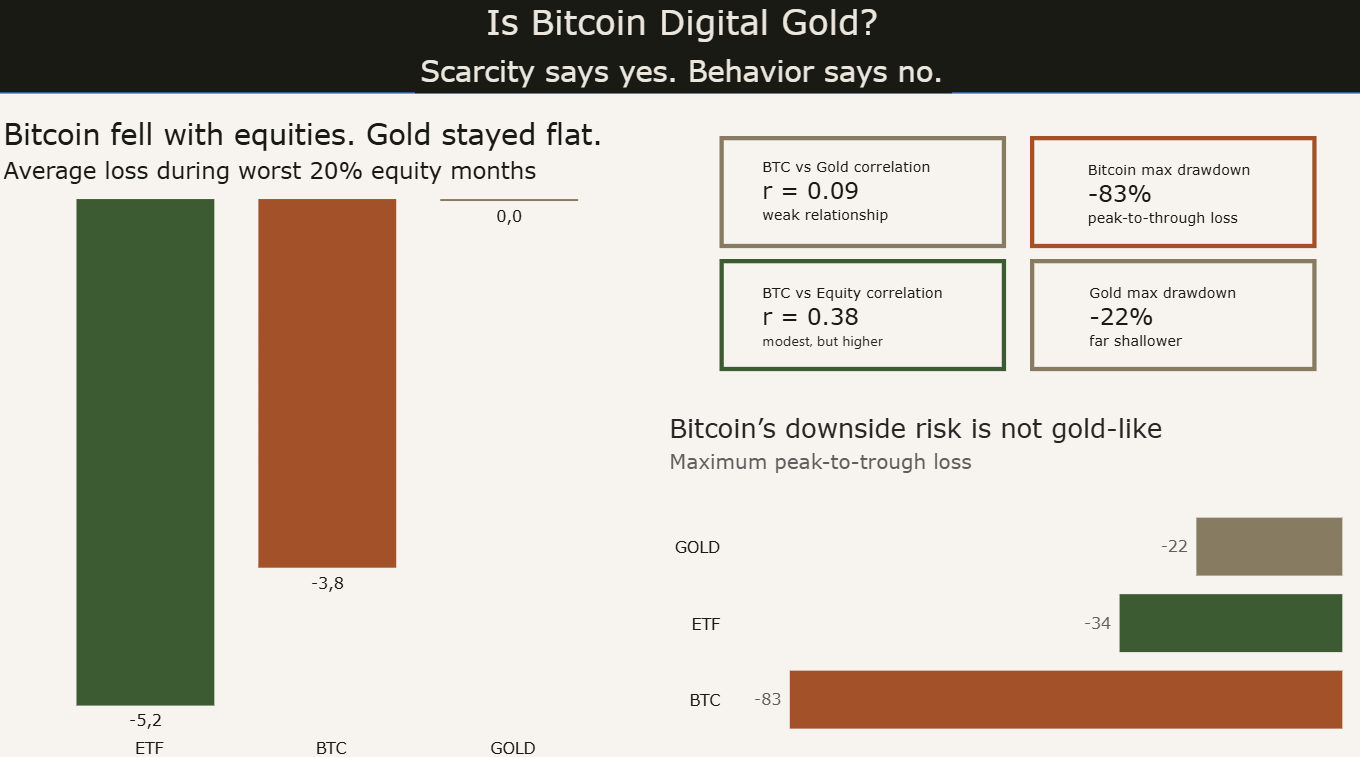
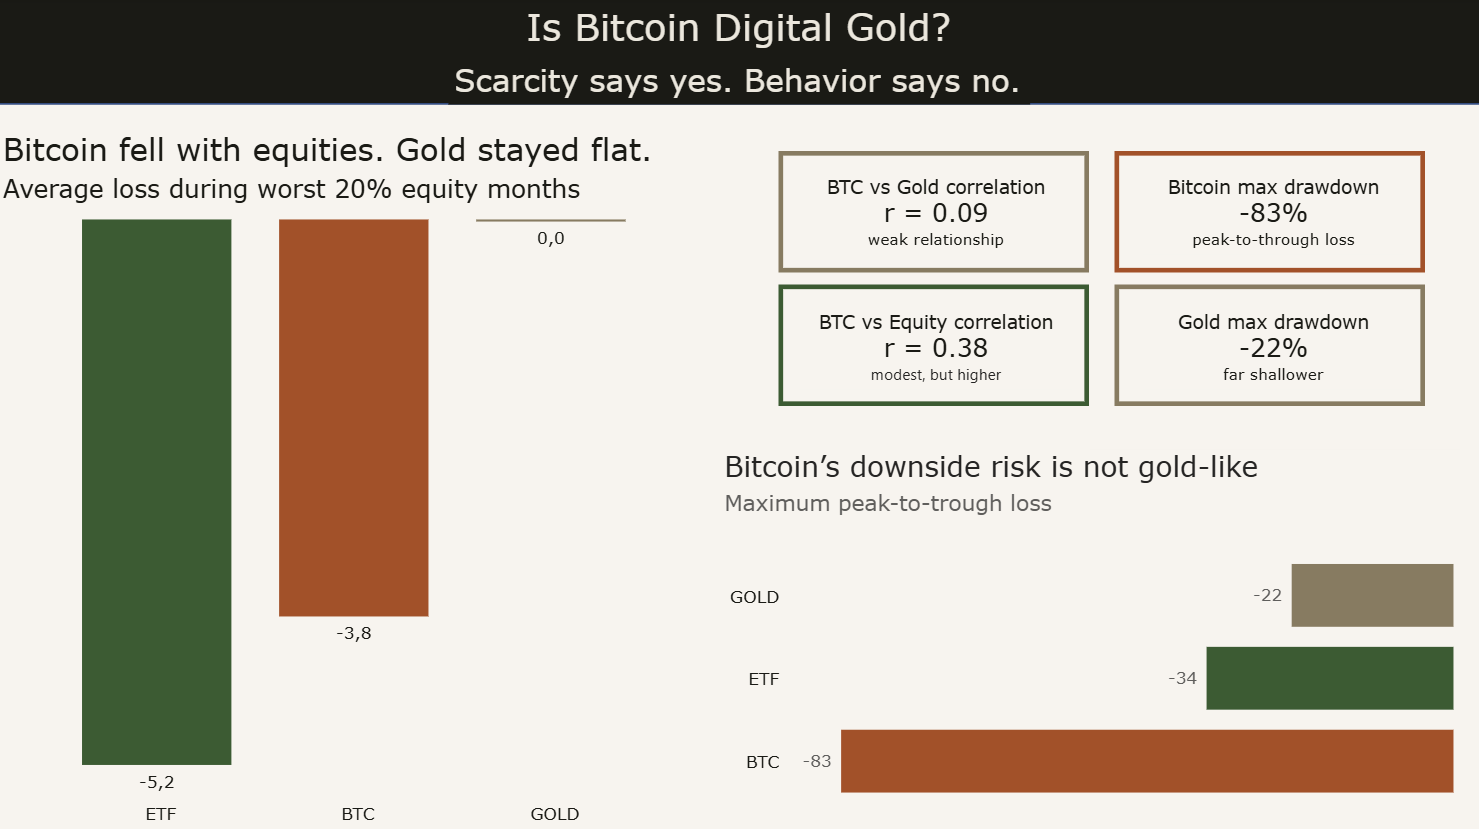
Update

diff --git a/README.md b/README.md
@@ -1,23 +1,29 @@
-# Bitcoin Digital Gold Analysis
+# Is Bitcoin Digital Gold?
 
-## Project Snapshot
+## 📌 Project Snapshot
 
 - **Type:** end-to-end data analysis project
 - **Tools:** Python, pandas, SciPy, Power BI
 - **Data:** Yahoo Finance, FRED
-- **Assets:** Bitcoin, Gold, Global Equities
+- **Assets:** Bitcoin, gold, global equities
 - **Focus:** correlation, safe-haven behavior, real returns, volatility, drawdowns
-- **Output:** reproducible Python pipeline, Power BI dashboard, static dashboard screenshots
+- **Output:** Reproducible Python pipeline, Power BI dashboard, static dashboard screenshots
 
-Is Bitcoin really digital Gold?
+## 🔑 Key Takeaway
 
-> A data analysis project testing whether Bitcoin behaves like Gold in market data, or whether the “digital gold” label is mainly a scarcity narrative.
+Bitcoin shares gold’s scarcity narrative, but not its observed market behavior.
 
-Bitcoin is often described as “digital Gold”.
-The idea sounds intuitive: both are scarce, independent of governments, and viewed by some as alternatives to traditional money.
-But scarcity alone does not guarantee similar behavior.
+From 2014 to 2026, Bitcoin delivered much higher returns than gold and global equities, but also showed deeper drawdowns, higher volatility, weak correlation with gold, and no clear safe-haven behavior during bad equity months.
 
-This project tests the Digital Gold claim empirically using BTC, Gold, and global equities from 2014 to 2026.
+> Scarcity is similar. Behavior, so far, is not.
+
+## 🧭 Overview
+
+Bitcoin is often described as “digital gold” because of its fixed supply and independence from traditional monetary systems.
+
+But scarcity alone does not guarantee gold-like behavior.
+
+This project tests whether Bitcoin has behaved like gold in market data by comparing Bitcoin, gold, and global equities across returns, correlations, drawdowns, volatility, and safe-haven behavior.
 
 ## 📸 Dashboard Preview
 
@@ -26,51 +32,50 @@ The final Power BI dashboard tells the story across four pages.
 ### 1. Verdict
 ![Hero page](./visuals/1_hero.png)
 
-### 2. Return path
+### 2. Return Path
 ![Return path](./visuals/2_return_path.png)
 
-### 3. Correlation behavior
+### 3. Correlation Behavior
 ![Correlation behavior](./visuals/3_correlation_behavior.png)
 
-### 4. Final scorecard
+### 4. Final Scorecard
 ![Scorecard](./visuals/4_scorecard.png)
 
 The interactive Power BI file is available as:
 
 ```text
 btc-digital-gold-dashboard.pbix
-````
+```
 
 ## 🎯 Research Question
 
-Bitcoin is often called “digital Gold” because of its fixed supply.
+Bitcoin is often called “digital gold” because of its fixed supply.
 
 This project asks:
 
-> Does Bitcoin only resemble Gold in its scarcity narrative, or has it also behaved like Gold in market data?
+> Does Bitcoin only resemble gold in its scarcity narrative, or has it also behaved like gold in market data?
 
-To test this, the analysis compares Bitcoin with:
+To test this, the analysis compares three assets:
 
 | Asset           | Ticker  | Role                             |
 | --------------- | ------- | -------------------------------- |
-| Bitcoin         | BTC-USD | Digital Gold candidate           |
+| Bitcoin         | BTC-USD | Digital gold candidate           |
 | Gold            | GLD     | Traditional safe-haven benchmark |
 | Global equities | ACWI    | Risk-asset benchmark             |
 
-## 🧠 Background
+## 🧠 Analytical Framing
 
-Gold has historically been viewed as a store of value and partial safe haven.
-Bitcoin is sometimes described as a digital version of Gold because its supply is algorithmically limited.
+Gold is commonly viewed as a store of value and partial safe-haven asset.
 
-However, an asset can be scarce without behaving like a safe haven.
+For Bitcoin to behave like “digital gold”, scarcity alone is not enough. It should also show at least some gold-like market behavior.
 
-This project therefore separates the narrative from the observed behavior:
+This project therefore separates the narrative from the data and tests five questions:
 
-* Does Bitcoin move like Gold?
-* Does Bitcoin hold up when equities fall?
-* Does Bitcoin hedge inflation?
-* Did Bitcoin deliver higher returns, and at what risk?
-* Has Bitcoin behaved like digital Gold so far?
+* Does Bitcoin move like gold?
+* Does Bitcoin hold up when global equities fall?
+* How do real returns, volatility, and drawdowns compare?
+* Is there any clear inflation-hedge signal?
+* Overall, does Bitcoin’s market behavior support the digital-gold narrative?
 
 ## 📊 Data Sources
 
@@ -82,39 +87,40 @@ This project therefore separates the narrative from the observed behavior:
 
 ## 📆 Analysis Period
 
-The analysis uses the longest common period available for BTC, Gold, and global equities:
+The analysis uses the longest common period available for Bitcoin, gold, and global equities:
 
 ```text
 2014-09-17 to 2026-04-30
 ```
 
-Only days where all three assets have valid prices are used.
-No forward-fill is applied across asset calendars.
+Only dates with valid prices for all three assets are included.
+
+No forward-fill is applied across asset calendars. This keeps the comparison consistent and avoids carrying prices across non-overlapping trading days.
 
 ## ⚙️ Methodology
 
 The project uses a reproducible Python pipeline:
 
-1. Download daily prices for BTC, Gold, and global equities
+1. Download daily prices for BTC, gold, and global equities
 2. Inner-join assets on common trading days
 3. Calculate monthly returns
 4. Add macro data from FRED
-5. Run Digital Gold tests:
+5. Run digital gold tests:
 
    * Spearman correlation
-   * safe-haven behavior in bad equity months
-   * inflation sensitivity
-   * rate sensitivity
-   * real returns
-   * volatility
-   * maximum drawdown
+   * Safe-haven behavior in bad equity months
+   * Inflation sensitivity
+   * Rate sensitivity
+   * Real returns
+   * Volatility
+   * Maximum drawdown
 6. Export clean CSV files for Power BI
 
 ### Why Spearman correlation?
 
-Spearman correlation is used instead of Pearson correlation because Bitcoin returns are highly non-normal and fat-tailed.
+Spearman correlation is used because Bitcoin returns are highly non-normal and fat-tailed.
 
-Spearman measures whether two assets tend to move in the same rank order, without assuming a linear relationship or normally distributed returns.
+Unlike Pearson correlation, Spearman does not assume a linear relationship or normally distributed returns. It measures whether two assets tend to move in the same rank order.
 
 ### Safe-haven test
 
@@ -122,101 +128,70 @@ Bad equity months are defined as the worst 20% of monthly global equity returns.
 
 The test asks:
 
-> When equities perform poorly, does Bitcoin behave more like Gold or more like a risk asset?
+> When equities perform poorly, does Bitcoin behave more like gold or more like a risk asset?
 
 ## 📈 Key Results
 
 ### 1. Bitcoin did not behave like a safe haven
 
-During the worst 20% of equity months:
+During the worst 20% of monthly global equity returns, gold stayed essentially flat while Bitcoin fell with equities.
 
-| Asset           | Average return |
-| --------------- | -------------: |
-| Gold            |         +0.02% |
-| Bitcoin         |         -3.77% |
-| Global equities |         -5.18% |
+| Asset           | Average return during bad equity months |
+| --------------- | --------------------------------------: |
+| Gold            |                                  +0.02% |
+| Bitcoin         |                                  -3.77% |
+| Global equities |                                  -5.18% |
 
-Gold stayed essentially flat.
-Bitcoin fell with equities.
+This is one of the clearest findings against the digital-gold safe-haven claim.
 
-This is one of the clearest findings challenging the Digital Gold safe-haven claim.
-
-### 2. BTC-Gold correlation was near zero
+### 2. Bitcoin did not move like gold
 
 Full-period Spearman correlation of monthly returns:
 
-| Pair                    | Spearman r | Interpretation     |
-| ----------------------- | ---------: | ------------------ |
-| BTC vs Gold             |       0.09 | Near zero          |
-| BTC vs Global equities  |       0.38 | Modest, but higher |
-| Gold vs Global equities |       0.25 | Weak/modest        |
+| Pair                       | Spearman r | Interpretation     |
+| -------------------------- | ---------: | ------------------ |
+| Bitcoin vs gold            |       0.09 | Near zero          |
+| Bitcoin vs global equities |       0.38 | Modest, but higher |
+| Gold vs global equities    |       0.25 | Weak/modest        |
 
-Bitcoin was closer to equities than to Gold, but neither relationship was strong.
+Bitcoin was closer to global equities than to gold, but neither relationship was strong.
 
-This matters:
-The result does **not** show that Bitcoin is simply an equity clone.
-It shows that Bitcoin has not moved like Gold.
+This does not mean Bitcoin behaved like an equity clone. It means Bitcoin did not behave like gold.
 
-### 3. Bitcoin delivered extraordinary returns
+### 3. Bitcoin delivered the highest returns, but with much higher risk
 
-Real CAGR, inflation-adjusted:
+| Asset           | Real CAGR | Max drawdown | Annualized volatility |
+| --------------- | --------: | -----------: | --------------------: |
+| Bitcoin         |    53.30% |      -83.04% |                66.41% |
+| Gold            |     8.62% |      -22.00% |                15.94% |
+| Global equities |     7.46% |      -33.53% |                16.93% |
 
-| Asset           | Real CAGR |
-| --------------- | --------: |
-| Bitcoin         |    53.30% |
-| Gold            |     8.62% |
-| Global equities |     7.46% |
+Bitcoin dominated total returns, but its downside risk and volatility were not gold-like.
 
-Bitcoin dominated total returns.
+Gold also performed strongly over the period and quietly outperformed global equities on a real-return basis.
 
-Gold also performed strongly and quietly outperformed global equities over the period.
-
-### 4. Bitcoin’s path was much rougher
-
-Maximum drawdown:
-
-| Asset           | Max drawdown |
-| --------------- | -----------: |
-| Bitcoin         |      -83.04% |
-| Global equities |      -33.53% |
-| Gold            |      -22.00% |
-
-Bitcoin delivered the highest upside, but its downside risk was not Gold-like.
-
-### 5. Bitcoin remained much more volatile
-
-Annualized volatility:
-
-| Asset           | Annualized volatility |
-| --------------- | --------------------: |
-| Bitcoin         |                66.41% |
-| Global equities |                16.93% |
-| Gold            |                15.94% |
-
-Bitcoin remained roughly four times as volatile as Gold and global equities.
-
-### 6. Inflation hedge behavior was inconclusive
+### 4. Inflation-hedge behavior was inconclusive
 
 None of the assets showed clear monthly inflation-hedge behavior.
 
-This does not mean the assets failed to beat inflation over the full period.
-It means they did not reliably rise in the same months when inflation was high.
+This does not mean the assets failed to beat inflation over the full period. It means they did not reliably rise in the same months when inflation was high.
 
 ## 🧾 Final Interpretation
 
-Bitcoin shares Gold’s scarcity narrative, but not its observed market behavior.
+Bitcoin shares gold’s scarcity narrative, but not its observed market behavior.
 
-The strongest case for Bitcoin is:
+The strongest case for Bitcoin as “digital gold” is narrative-based:
 
 * fixed supply
-* high long-term return
-* independent monetary narrative
+* independent monetary design
+* high long-term return potential
 
-The weaker case is:
+The weaker case is behavioral:
 
-* safe-haven behavior
-* Gold-like correlation
-* Gold-like drawdown profile
+* weak correlation with gold
+* no clear safe-haven behavior in bad equity months
+* much deeper drawdowns than gold
+* substantially higher volatility
 
 Final takeaway:
 
@@ -226,18 +201,15 @@ Final takeaway:
 
 Bitcoin is a young asset.
 
-This analysis covers most of Bitcoin’s liquid market history, but only a small slice of Gold’s much longer monetary history.
-
-Future behavior may change as Bitcoin matures, adoption broadens, and market structure evolves.
+This analysis covers most of Bitcoin’s liquid market history, but only a small slice of gold’s much longer monetary history. Bitcoin’s behavior may change as the asset matures, adoption broadens, and market structure evolves.
 
 Additional limitations:
 
-* GLD is used as a tradable Gold proxy, not physical Gold
-* ACWI is used as a global equity benchmark
+* GLD is used as a tradable gold proxy, not physical gold
+* ACWI is used as a global equity proxy
 * Correlation does not imply causation
-* Safe-haven behavior is tested using the worst 20% of equity months, which is an intuitive but not universal stress definition
-* Macro relationships such as inflation sensitivity are descriptive, not causal
-* Static screenshots cannot fully replicate the interactive Power BI dashboard
+* Safe-haven behavior is tested using the worst 20% of monthly global equity returns, which is intuitive but not universal
+* Inflation sensitivity is descriptive and does not prove or disprove long-term inflation-hedge properties
 
 ## 🛠️ Tools
 
@@ -249,7 +221,7 @@ Additional limitations:
 * Power BI
 * Git / GitHub
 
-## ⚙️ Reproducing the Analysis
+## 🔁 Reproducing the Analysis
 
 Install dependencies:
 
@@ -275,7 +247,7 @@ py src/q5_drawdown.py
 py src/export_for_bi.py
 ```
 
-The Power BI-ready CSVs are written to:
+The Power BI-ready CSV files are written to:
 
 ```text
 data/processed/bi/
@@ -284,3 +256,5 @@ data/processed/bi/
 ## 🤖 Use of AI
 
 AI tools were used to support project structuring, wording, debugging, and code refinement.
+
+The core analysis, interpretation, and final decisions were developed independently.